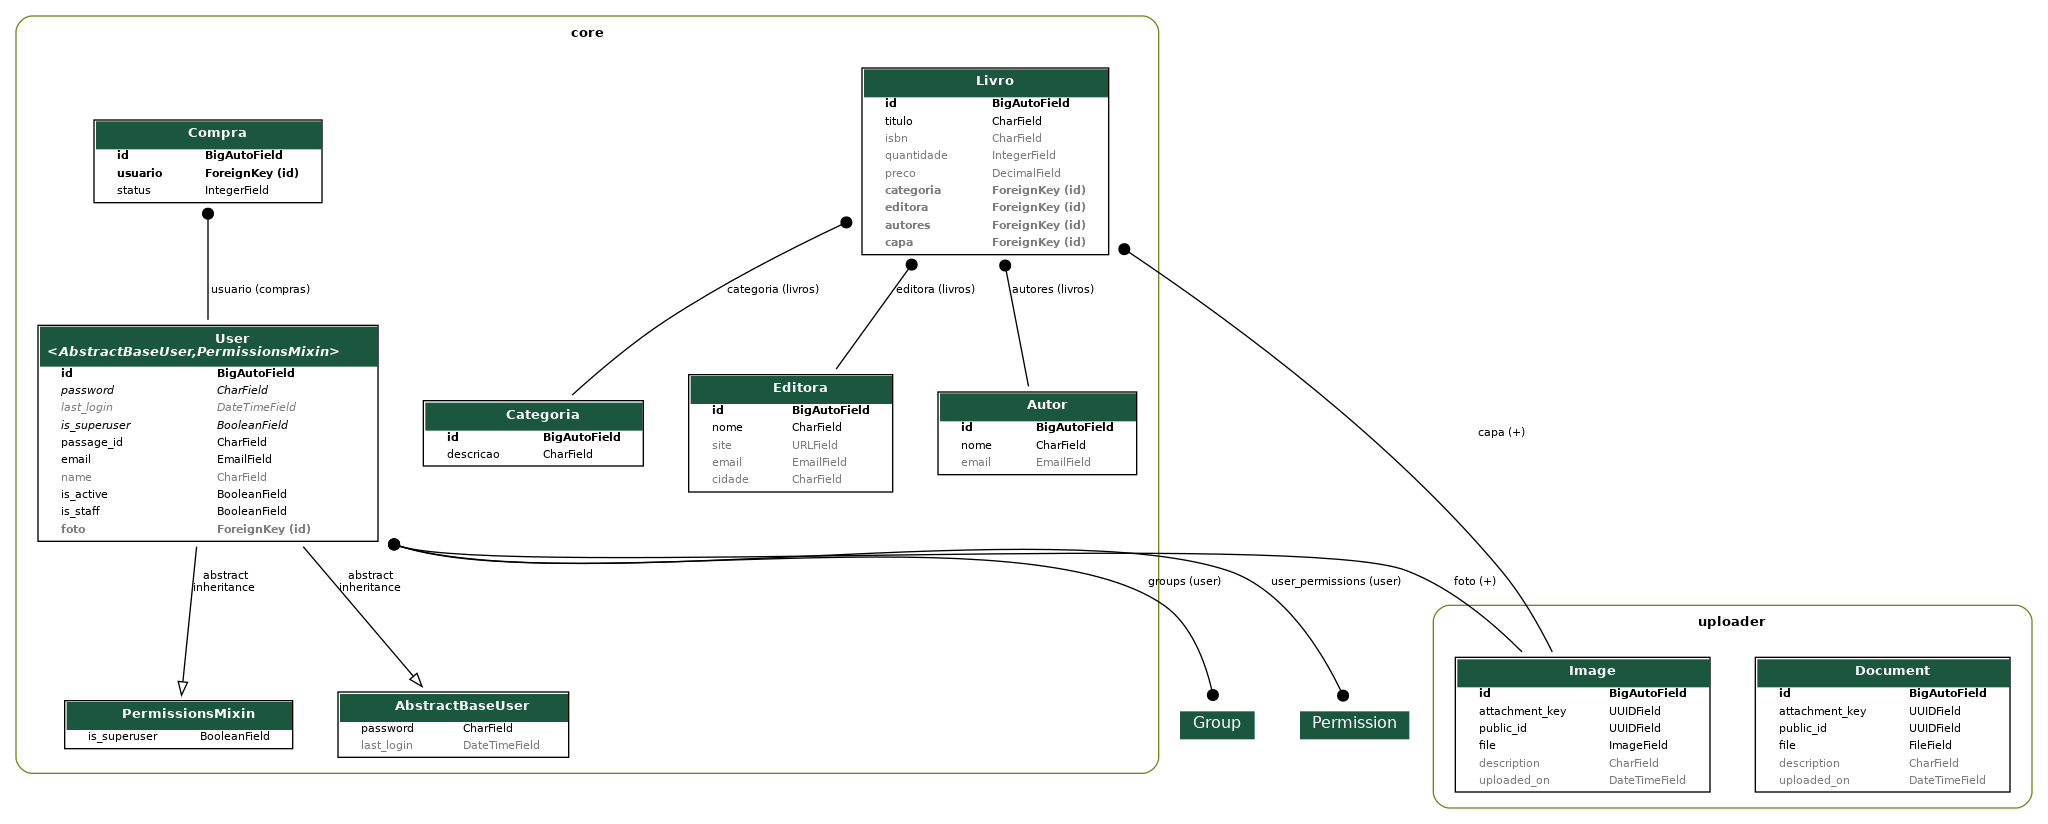
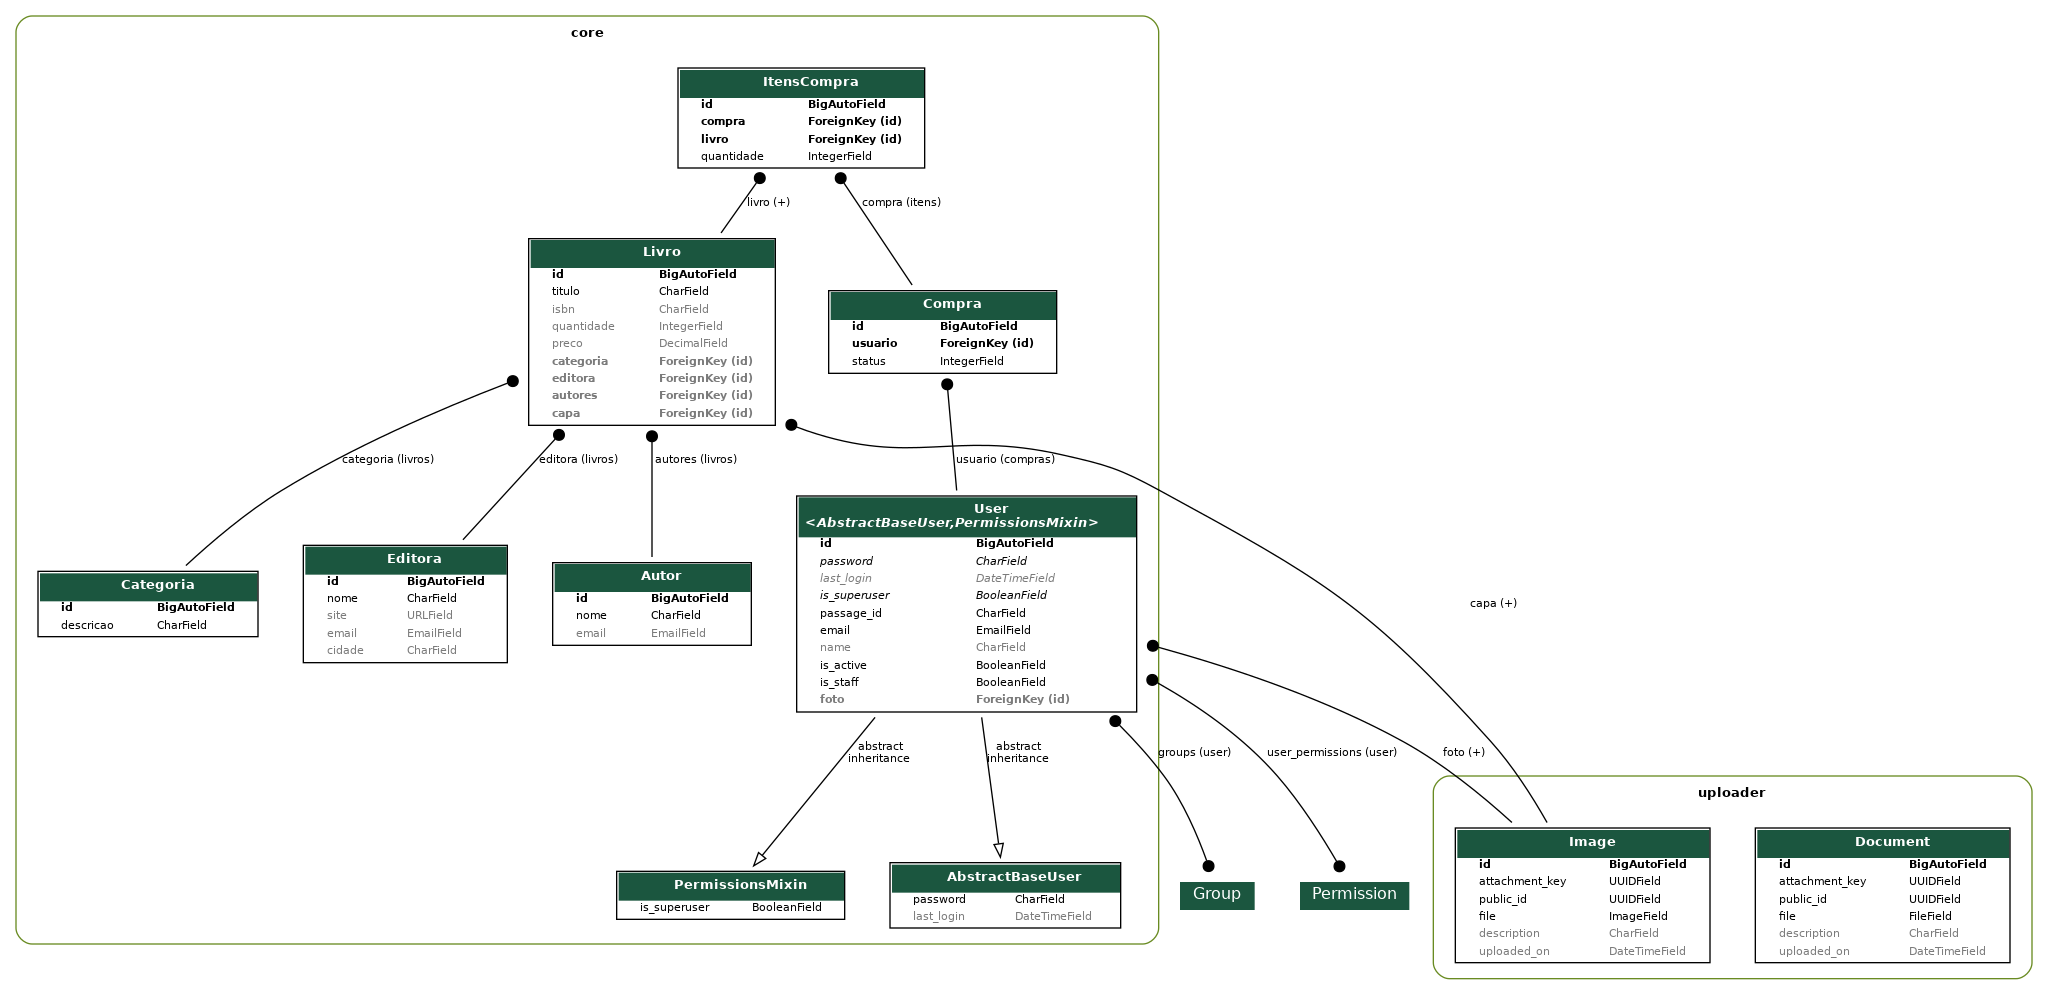
feat: criação dos itens da compra.

diff --git a/core/migrations/0018_itenscompra.py b/core/migrations/0018_itenscompra.py
@@ -1,0 +1,23 @@
+# Generated by Django 5.2.1 on 2025-07-08 17:10
+
+import django.db.models.deletion
+from django.db import migrations, models
+
+
+class Migration(migrations.Migration):
+
+    dependencies = [
+        ('core', '0017_compra'),
+    ]
+
+    operations = [
+        migrations.CreateModel(
+            name='ItensCompra',
+            fields=[
+                ('id', models.BigAutoField(auto_created=True, primary_key=True, serialize=False, verbose_name='ID')),
+                ('quantidade', models.IntegerField(default=1)),
+                ('compra', models.ForeignKey(on_delete=django.db.models.deletion.CASCADE, related_name='itens', to='core.compra')),
+                ('livro', models.ForeignKey(on_delete=django.db.models.deletion.PROTECT, related_name='+', to='core.livro')),
+            ],
+        ),
+    ]

diff --git a/core/models/compra.py b/core/models/compra.py
@@ -1,7 +1,7 @@
 from django.db import models
 
 from .user import User
-
+from .livro import Livro
 
 class Compra(models.Model):
     class StatusCompra(models.IntegerChoices):
@@ -12,3 +12,8 @@ class Compra(models.Model):
 
     usuario = models.ForeignKey(User, on_delete=models.PROTECT, related_name='compras')
     status = models.IntegerField(choices=StatusCompra.choices, default=StatusCompra.CARRINHO)
+
+class ItensCompra(models.Model):
+    compra = models.ForeignKey(Compra, on_delete=models.CASCADE, related_name='itens')
+    livro = models.ForeignKey(Livro, on_delete=models.PROTECT, related_name='+')
+    quantidade = models.IntegerField(default=1)

diff --git a/core/models/__init__.py b/core/models/__init__.py
@@ -3,4 +3,4 @@ from .categoria import Categoria
 from .editora import Editora
 from .autor import Autor
 from .livro import Livro
-from .compra import Compra
+from .compra import Compra, ItensCompra
